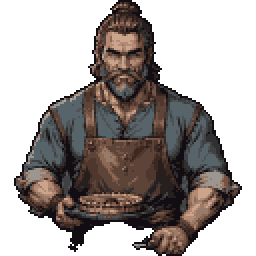
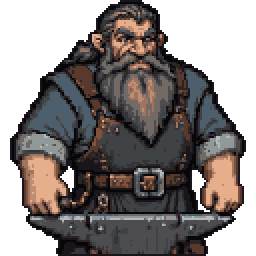
art(phurgo): redo portrait with dwarf proportions, no pie
Repainted from a Z-Image dwarf structure (new control: refs/control/dwarfBlacksmith).

diff --git a/docs/character/lirold/phurgo.md b/docs/character/lirold/phurgo.md
@@ -35,7 +35,7 @@ Sample: "A blade can have life left in it after its owner gives up. People, too,
 
 Broad, compact dwarf with large working hands, a square face and a dark beard streaked with iron-grey, tied back clear of the hearth. Calm brown eyes under heavy brows; a small, almost reluctant smile. A smoke-dark leather apron over a rolled-sleeve slate-blue shirt, copper apron rivets, an old burn scar on one forearm. No royal regalia or warrior armour.
 
-Waist-up, readable at NPC portrait size, one hand resting on an anvil and the other holding a small pie plate away from the soot. Hammer and long tongs in the background rather than crossing his face. Pale stone, slate and warm copper connect him to Lirold; a soft ember glow suggests the restored Forge. The pie is a humanising detail, not a giant comic prop. Portrait: `src/assets/img/avatars/lirold/liroldPhurgo.png` (2026-11-02; reads human-sized, redo for dwarf proportions).
+Unmistakably a dwarf, not a short human: broad, stocky build, large head and hands, thick neck. Waist-up, readable at NPC portrait size, one hand resting on an anvil. Hammer and long tongs in the background rather than crossing his face. Pale stone, slate and warm copper connect him to Lirold; a soft ember glow suggests the restored Forge. No pie in the portrait (owner decision): his love of apple pie lives in his dialogue. Portrait: `src/assets/img/avatars/lirold/liroldPhurgo.png` (redone 2026-11-03 for dwarf proportions, no pie).
 
 ## Setting and role
 
